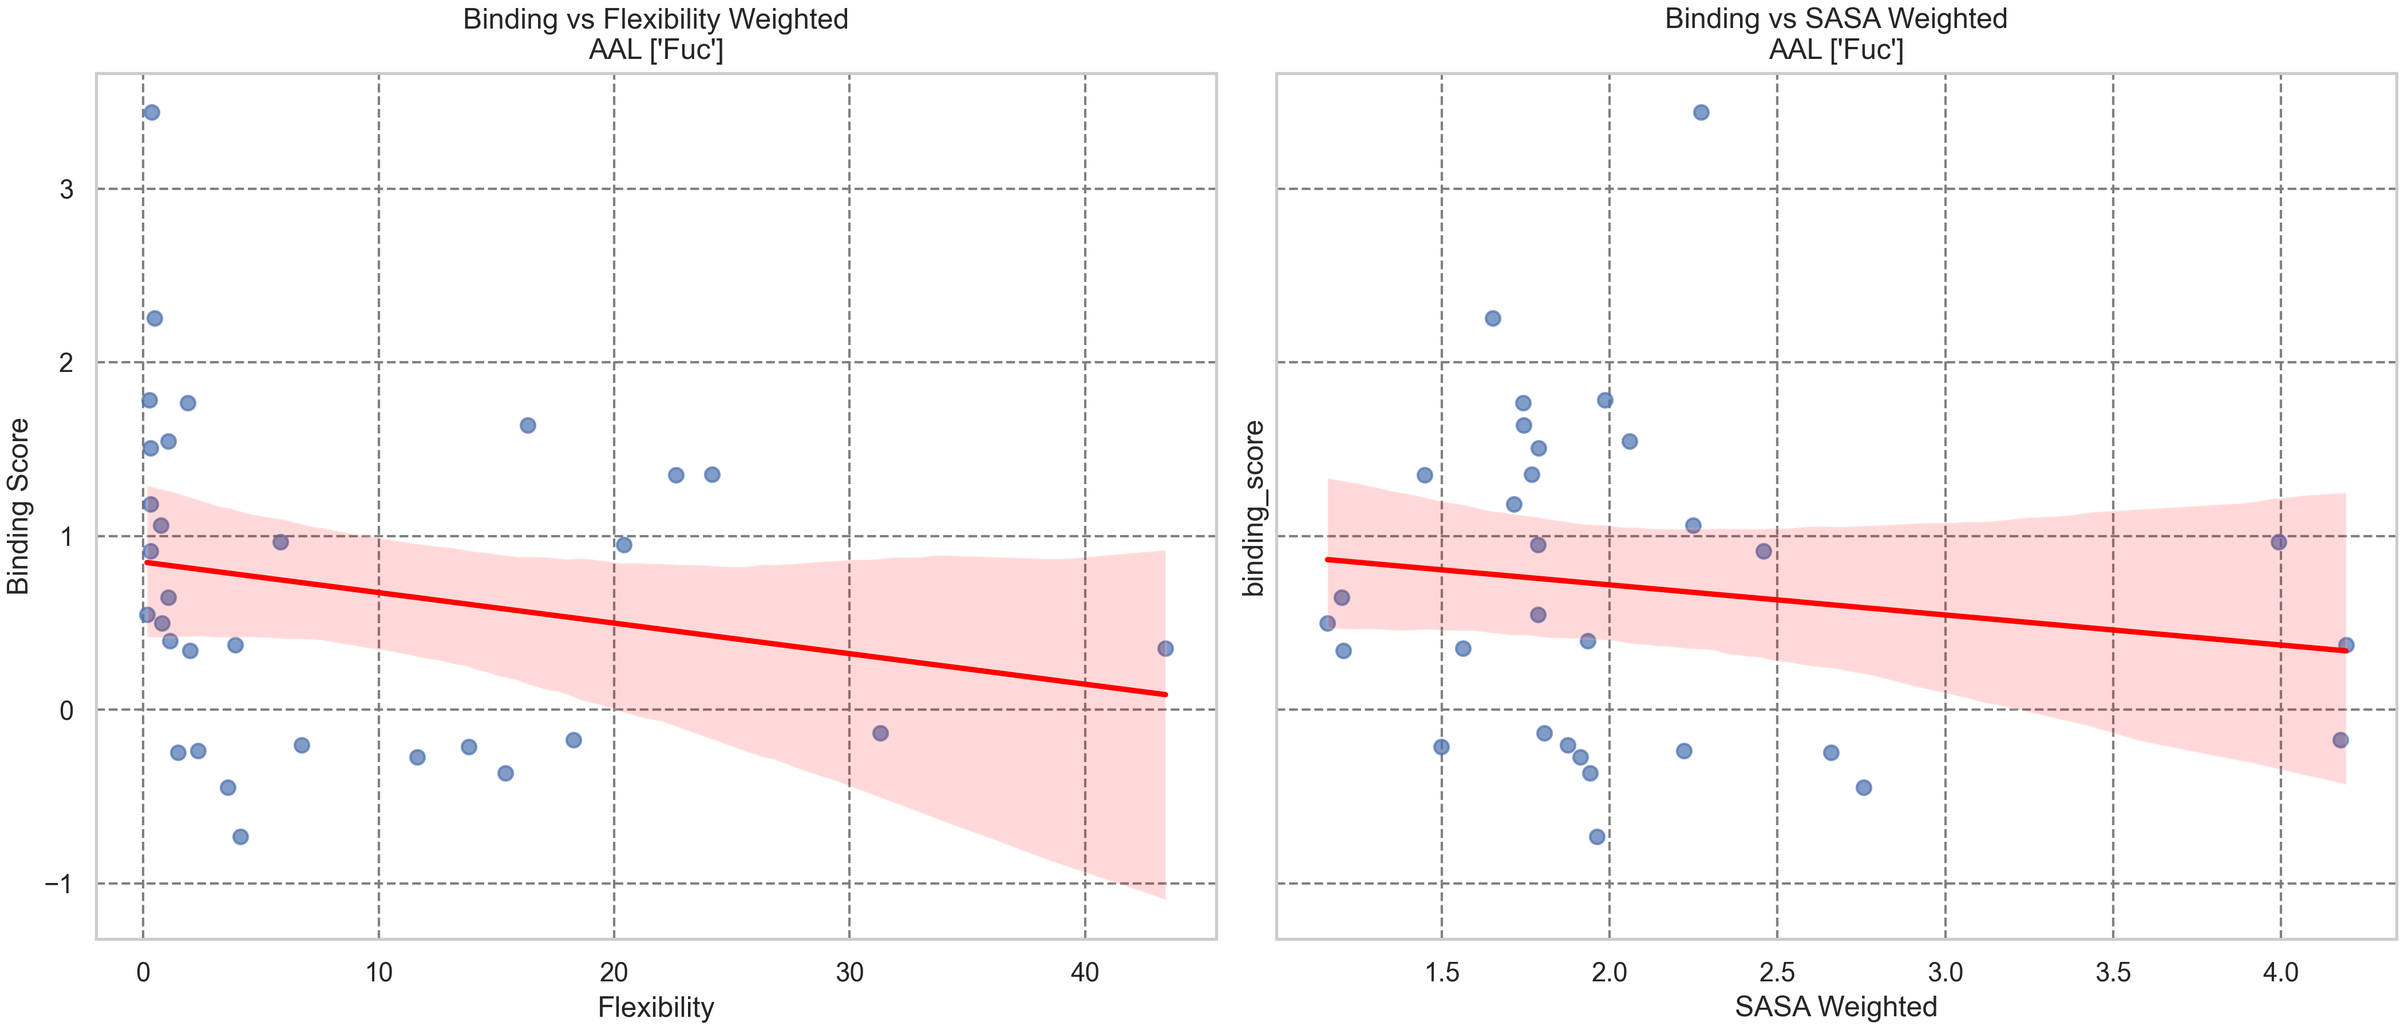
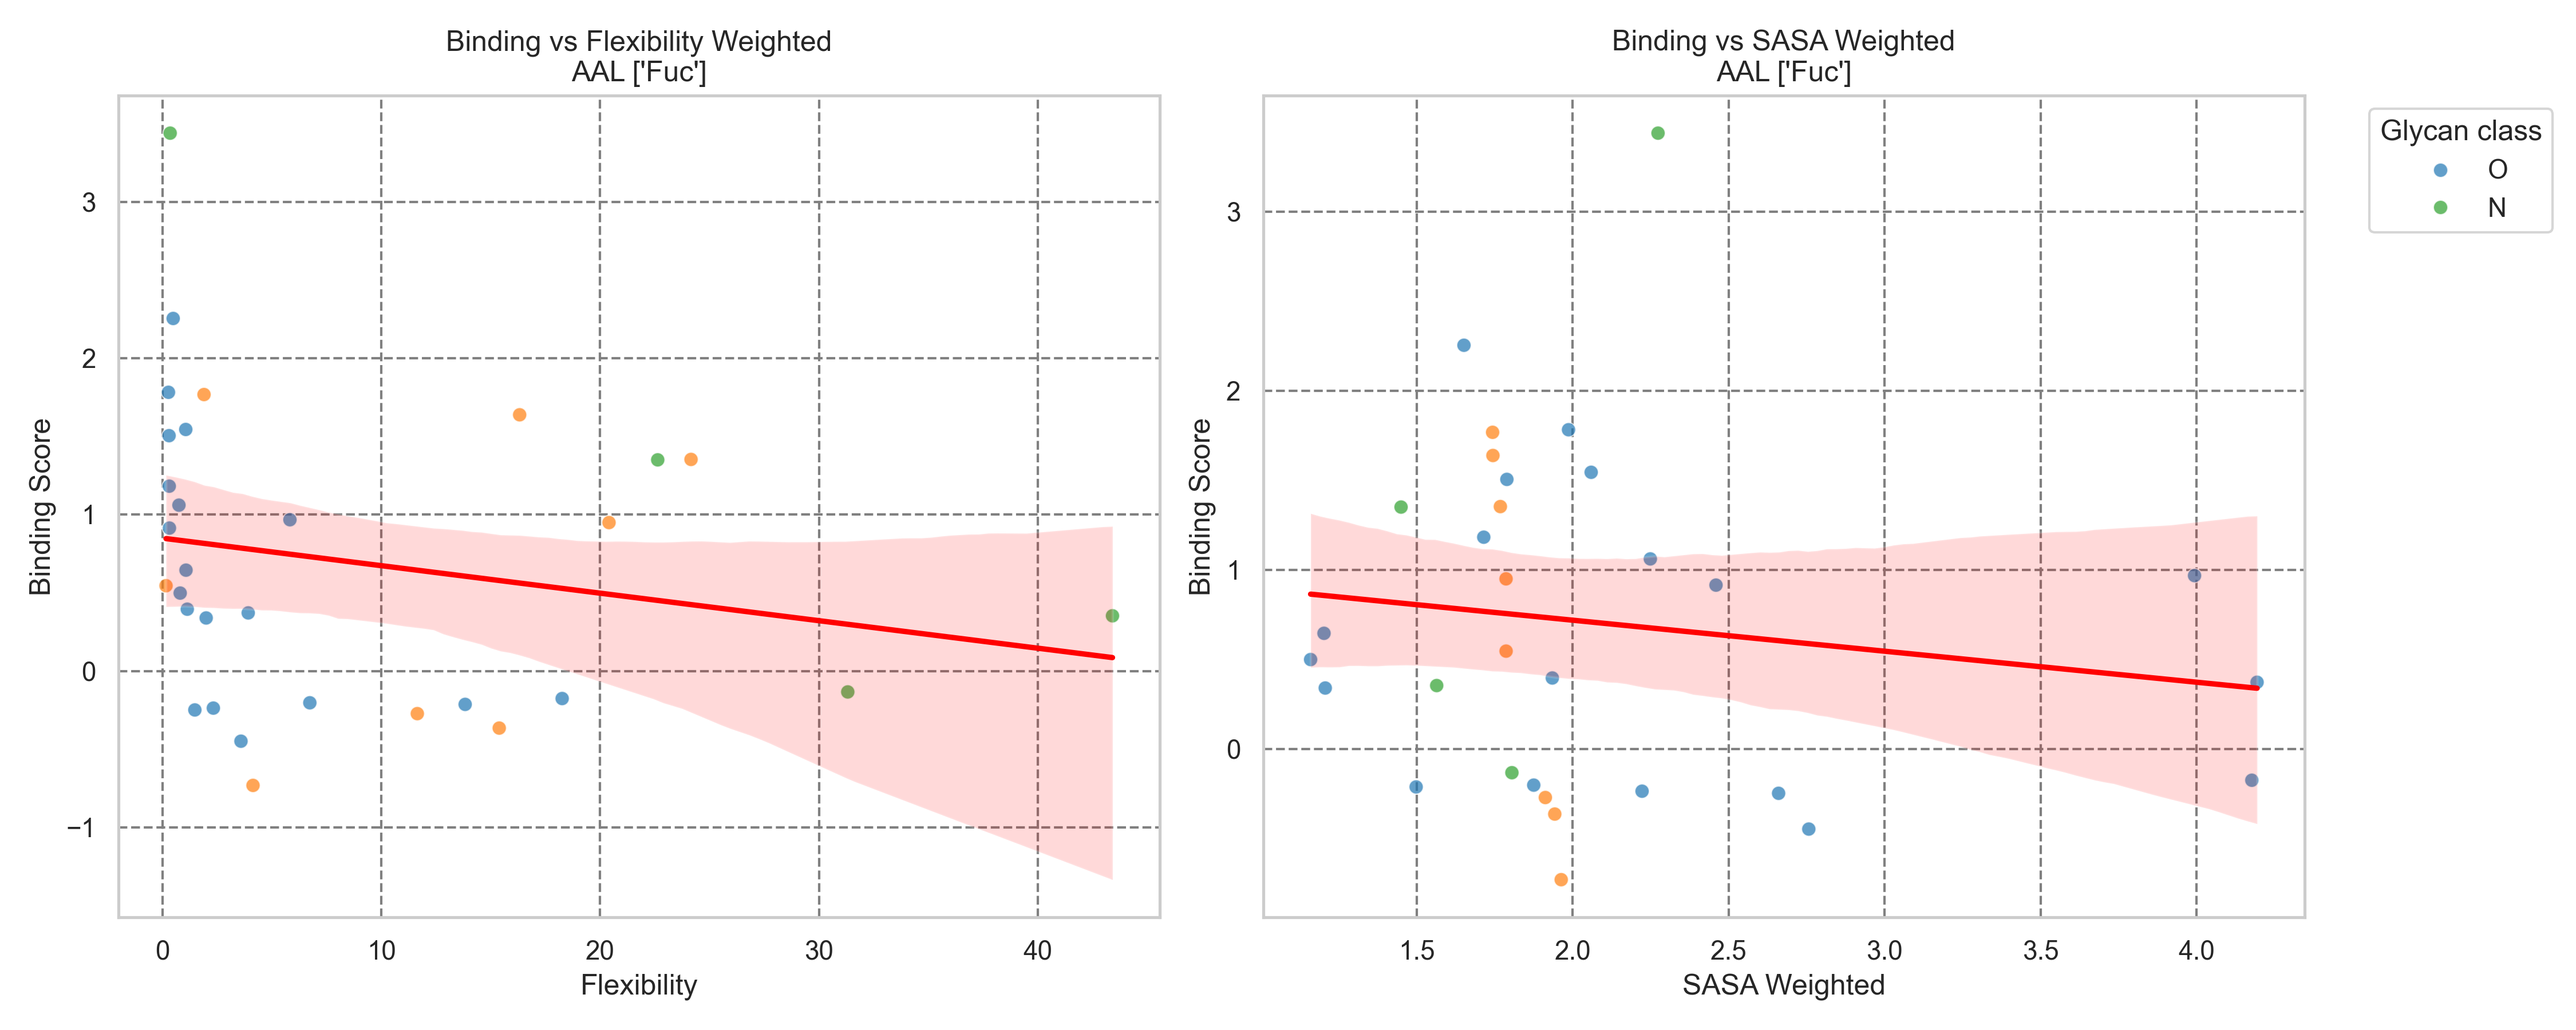
set 3: terminal_binding_motif, get_class, subgraph_isomorphism

diff --git a/scripts/correlation/func/metric_df3.py b/scripts/correlation/func/metric_df3.py
@@ -1,6 +1,8 @@
 import pickle
 import pandas as pd
 from glycowork.motif.graph import compare_glycans, subgraph_isomorphism
+from glycowork.motif.processing import get_class
+from glycowork.motif.graph import *
 
 flex_data_path = 'data/glycan_graphs.pkl'
 binding_data_path = 'data/glycan_binding.csv'
@@ -88,15 +90,39 @@ def process_glycan(matched_flex_glycan, binding_motifs, graph):
     Returns:
         Tuple of node attributes (matching monosaccharides), flexibility values, and found motifs.
     """
-    # Initialize lists for filtered metrics and found motifs
+
+    def extract_terminal_residue(binding_motif):
+        """
+        Extract the terminal residue from a binding motif.
+
+        Args:
+            binding_motif: A string representing a glycan binding motif (e.g., "Fuc(a1-2)Gal").
+
+        Returns:
+            A string representing the terminal residue (e.g., "Fuc(a1-2)").
+        """
+        # Find the first `(` and include everything up to the matching `)`
+        if '(' in binding_motif and ')' in binding_motif:
+            end_idx = binding_motif.find(')') + 1
+            return binding_motif[:end_idx]  # Extract up to the first `)`
+        else:
+            return binding_motif  # Return as is if no linkage format exists
+
+    # Preprocess the binding motifs list to extract terminal residues
+    terminal_binding_motifs = [extract_terminal_residue(motif) for motif in binding_motifs]
+
     matching_monosaccharides = []  # Nodes matching the binding motifs
     flexibility_values = []  # Weighted flexibility values for matching nodes
     found_motifs = []  # List of motifs found in the glycan
 
-    # Iterate over each binding motif
-    for binding_motif in binding_motifs:
-        # Use subgraph isomorphism to identify matching nodes for the current motif
-        is_present, matched_nodes = subgraph_isomorphism(matched_flex_glycan, binding_motif, return_matches=True)
+    # Iterate over the terminal binding motifs
+    for binding_motif in terminal_binding_motifs:
+        is_present, matched_nodes = subgraph_isomorphism(
+            matched_flex_glycan,
+            binding_motif,
+            return_matches=True,
+            termini_list=['terminal']  # Restrict to terminal matches
+        )
 
         if not is_present:
             # If the current motif is not present, skip to the next
@@ -106,17 +132,26 @@ def process_glycan(matched_flex_glycan, binding_motifs, graph):
         found_motifs.append(binding_motif)
 
         # Flatten matched nodes (in case of nested lists)
-        if isinstance(matched_nodes[0], list):
-            matched_nodes = [node for sublist in matched_nodes for node in sublist]
+        if matched_nodes:  # Check if there are matches
+            if isinstance(matched_nodes[0], list):
+                matched_nodes = [node for sublist in matched_nodes for node in sublist]
 
         # Process nodes in the graph to extract attributes for matched nodes
         for node in matched_nodes:
             if node in graph.nodes:
                 attributes = graph.nodes[node]
+                #matching_monosaccharides.append(attributes.get("Monosaccharide", 0))
                 matching_monosaccharides.append(attributes)
                 flexibility_values.append(attributes.get("weighted_mean_flexibility", 0))
 
+                # Debugging: print node data and motif match
+                print(f"Node {node} attributes: {attributes}")
+                if "name" in attributes:
+                    print(f"Matched motif: {binding_motif} in graph node {node} with name {attributes['name']}")
+                    print(f"Matched motif: {binding_motif} in graph node {node} with Monosaccharide {attributes['Monosaccharide']}")
+
     return matching_monosaccharides, flexibility_values, found_motifs
+
 
 
 def metric_df(lectin, binding_motif):
@@ -146,35 +181,112 @@ def metric_df(lectin, binding_motif):
 
         # Compute SASA metrics and overall flexibility
         sasa_metrics = compute_sasa_metrics(matching_monosaccharides)
-        overall_flexibility = (
-            sum(flexibility_values) / len(flexibility_values) if flexibility_values else None
-        )
+        overall_flexibility = (sum(flexibility_values) / len(flexibility_values) if flexibility_values else None)
+
+        # Get the glycan's class
+        glycan_class = get_class(matched_flex_glycan)
 
         metric_data.append({
             "glycan": glycan,
             "binding_score": binding_score,
-            "SASA_mean": sasa_metrics["SASA_mean"],
-            "SASA_median": sasa_metrics["SASA_median"],
+            #"SASA_mean": sasa_metrics["SASA_mean"],
+            #"SASA_median": sasa_metrics["SASA_median"],
             "SASA_weighted": sasa_metrics["SASA_weighted"],
-            "SASA_mean_max": sasa_metrics.get("SASA_mean_max", None),  # Add max metrics
-            "SASA_median_max": sasa_metrics.get("SASA_median_max", None),
+            #"SASA_mean_max": sasa_metrics.get("SASA_mean_max", None),
+            #"SASA_median_max": sasa_metrics.get("SASA_median_max", None),
             "SASA_weighted_max": sasa_metrics.get("SASA_weighted_max", None),
-            "SASA_mean_sum": sasa_metrics.get("SASA_mean_sum", None),  # Add sum metrics
-            "SASA_median_sum": sasa_metrics.get("SASA_median_sum", None),
+            #"SASA_mean_sum": sasa_metrics.get("SASA_mean_sum", None),
+            #"SASA_median_sum": sasa_metrics.get("SASA_median_sum", None),
             "SASA_weighted_sum": sasa_metrics.get("SASA_weighted_sum", None),
-            "weighted_mean_flexibility": overall_flexibility,  # Keep existing flexibility value
+            "weighted_mean_flexibility": overall_flexibility,
+            "class": glycan_class,  # Add class column
         })
 
     metric_df = pd.DataFrame(metric_data)
-    return metric_df #binding_df, filtered_df
+    return metric_df #, binding_df, filtered_df, flex_data
 
 
-# Example usage
-#lectin = "PNA"
-#binding_motif = "Gal(b1-3)GalNAc"
+def subgraph_isomorphism_II(glycan, motif, termini_list = [], count = False, return_matches = False):
+  if isinstance(glycan, str):
+    glycan = glycan_to_nxGraph(glycan, termini='calc' if termini_list else None)
+  else:
+    g1 = deepcopy(glycan)
+  if isinstance(motif, str):
+    motif = glycan_to_nxGraph(motif, termini='provided' if termini_list else None, termini_list=termini_list)
+  else:
+    g2 = deepcopy(motif)
+  if isinstance(glycan, str) and isinstance(motif, str):
+    if motif.count('(') > glycan.count('('):
+      return (0, []) if return_matches else 0 if count else False
+    if not count and not return_matches and motif in glycan:
+      return True
+    motif_comp = min_process_glycans([motif, glycan])
+    if 'O' in glycan + motif:
+      glycan, motif = [re.sub(r"(?<=[a-zA-Z])\d+(?=[a-zA-Z])", 'O', g).replace('NeuOAc', 'Neu5Ac').replace('NeuOGc', 'Neu5Gc') for g in [glycan, motif]]
+  else:
+    print(motif.__dict__,glycan.__dict__)
+    # if len(glycan.nodes) < len(motif.nodes):
+    #   return (0, []) if return_matches else 0 if count else False
+    motif_comp = [nx.get_node_attributes(motif, "string_labels").values(), nx.get_node_attributes(glycan, "string_labels").values()]
+    if 'O' in ''.join(unwrap(motif_comp)):
+      g1, g2 = ptm_wildcard_for_graph(deepcopy(glycan)), ptm_wildcard_for_graph(deepcopy(motif))
+    else:
+      g1, g2 = deepcopy(glycan), motif
+  narrow_wildcard_list = {k: get_possible_linkages(k) if '?' in k else get_possible_monosaccharides(k) for k in set(unwrap(motif_comp))
+                          if '?' in k or k in {'Hex', 'HexOS', 'HexNAc', 'HexNAcOS', 'dHex', 'Sia', 'HexA', 'Pen', 'Monosaccharide'} or '!' in k}
+  if termini_list or narrow_wildcard_list:
+    graph_pair = nx.algorithms.isomorphism.GraphMatcher(g1, g2, node_match = categorical_node_match_wildcard('string_labels', 'unknown', narrow_wildcard_list,
+                                                                                                             'termini', 'flexible'))
+  else:
+    g1_node_attr = set(nx.get_node_attributes(g1, "string_labels").values())
+    if all(k in g1_node_attr for k in motif_comp[0]):
+      graph_pair = nx.algorithms.isomorphism.GraphMatcher(g1, g2, node_match = nx.algorithms.isomorphism.categorical_node_match('string_labels', 'unknown'))
+    else:
+      return (0, []) if return_matches else 0 if count else False
+
+  if return_matches:
+    mappings = [list(isos.keys()) for isos in graph_pair.subgraph_isomorphisms_iter()]
+
+  # Count motif occurrence
+  if count:
+    counts = 0
+    while graph_pair.subgraph_is_isomorphic():
+      mapping = graph_pair.mapping
+      inverse_mapping  = {v: k for k, v in mapping.items()}
+      if all(inverse_mapping[node] < inverse_mapping[neighbor] for node, neighbor in g2.edges()):
+        counts += 1
+      g1.remove_nodes_from(mapping.keys())
+      if termini_list or narrow_wildcard_list:
+        graph_pair = nx.algorithms.isomorphism.GraphMatcher(g1, g2, node_match = categorical_node_match_wildcard('string_labels', 'unknown', narrow_wildcard_list,
+                                                                                                             'termini', 'flexible'))
+      else:
+        g1_node_attr = set(nx.get_node_attributes(g1, "string_labels").values())
+        if all(k in g1_node_attr for k in motif_comp[0]):
+          graph_pair = nx.algorithms.isomorphism.GraphMatcher(g1, g2, node_match = nx.algorithms.isomorphism.categorical_node_match('string_labels', 'unknown'))
+        else:
+          return counts if not return_matches else (counts, mappings)
+    return counts if not return_matches else (counts, mappings)
+  else:
+    if graph_pair.subgraph_is_isomorphic():
+      for mapping in graph_pair.subgraph_isomorphisms_iter():
+        mapping = {v: k for k, v in mapping.items()}
+        for node, neighbor in g2.edges():
+          if mapping[node] >= mapping[neighbor]:
+             return False if not return_matches else (0, [])
+        return True if not return_matches else (1, mappings)
+  return False if not return_matches else (0, [])
 
 
-#lectin = "CMA"
-#binding_motif = ["Fuc(a1-2)Gal", "GalNAc"]
 
-#metric_df, binding_df, filtered_df = metric_df(lectin, binding_motif)
+"""# Example usage
+lectin = "CMA"
+binding_motif = ["Fuc(a1-2)Gal", "GalNAc"]
+
+metric_df, binding_df, filtered_df, flex_data = metric_df(lectin, binding_motif)
+
+subgraph_isomorphism_II(
+            flex_data['Fuc(a1-2)Gal'],
+            'Fuc(a1-2)',
+            return_matches=True,
+            termini_list=['terminal'])
+"""

diff --git a/scripts/correlation/func/plot_corr_regg.py b/scripts/correlation/func/plot_corr_regg.py
@@ -81,9 +81,7 @@ def plot_corr_binding_SASA(metric_df, lectin, binding_motif):
 
 def plot_corr_binding_SASA_subplots(metric_df, lectin, binding_motif):
     """Plot correlation of binding scores with SASA-related metrics in subplots."""
-
-    # Filter for metrics that start with "SASA"
-    sasa_metrics = [metric for metric in metric_df.columns if metric.startswith("SASA")]
+    sasa_metrics = [metric for metric in metric_df.columns if metric.startswith("SASA_weighted")]
 
     # Create a figure with 3 rows and 3 columns of subplots
     fig, axes = plt.subplots(3, 3, figsize=(15, 15))
@@ -105,7 +103,7 @@ def plot_corr_binding_SASA_subplots(metric_df, lectin, binding_motif):
                 data=metric_df,
                 ax=ax,
                 scatter_kws={'alpha': 0.7},
-                line_kws={'color': 'red'}
+                line_kws={'color': 'red'},
             )
 
             # Set subplot title and labels
@@ -152,7 +150,7 @@ def plot_combined(metric_df, lectin, binding_motif):
         y='binding_score',
         data=metric_df,
         scatter_kws={'alpha': 0.7},
-        line_kws={'color': 'red'}
+        line_kws={'color': 'red'},
     )
     axes[0].set_title(f'Binding vs Flexibility Weighted\n{lectin} {binding_motif}', fontsize=12)
     axes[0].set_xlabel('Flexibility')
@@ -175,5 +173,67 @@ def plot_combined(metric_df, lectin, binding_motif):
 
     # Show the plots
     plt.show()
+
+def plot_combined_colors(metric_df, lectin, binding_motif):
+    """Plots Binding vs Flexibility and Binding vs SASA Weighted with colors for glycans."""
+
+    fig, axes = plt.subplots(1, 2, figsize=(15, 6))  # Create two subplots side by side
+
+    # Plot Binding vs Flexibility without legend
+    sns.scatterplot(
+        ax=axes[0],
+        x='weighted_mean_flexibility',
+        y='binding_score',
+        data=metric_df,
+        hue="class",  # Color by glycan class
+        palette="tab10",  # Use glycan column for coloring
+        alpha=0.7
+    )
+    sns.regplot(
+        ax=axes[0],
+        x='weighted_mean_flexibility',
+        y='binding_score',
+        data=metric_df,
+        scatter=False,  # Do not plot points again
+        line_kws={'color': 'red'}
+    )
+    axes[0].set_title(f'Binding vs Flexibility Weighted\n{lectin} {binding_motif}', fontsize=12)
+    axes[0].set_xlabel('Flexibility')
+    axes[0].set_ylabel('Binding Score')
+    axes[0].get_legend().remove()  # Remove legend from the first plot
+
+    # Plot Binding vs SASA Weighted with the legend
+    sns.scatterplot(
+        ax=axes[1],
+        x='SASA_weighted',
+        y='binding_score',
+        data=metric_df,
+        hue='class',  # Use glycan column for coloring
+        palette="tab10",
+        alpha=0.7
+    )
+    sns.regplot(
+        ax=axes[1],
+        x='SASA_weighted',
+        y='binding_score',
+        data=metric_df,
+        scatter=False,  # Do not plot points again
+        line_kws={'color': 'red'}
+    )
+    axes[1].set_title(f'Binding vs SASA Weighted\n{lectin} {binding_motif}', fontsize=12)
+    axes[1].set_xlabel('SASA Weighted')
+    axes[1].set_ylabel('Binding Score')
+    axes[1].legend(title="Glycan class", bbox_to_anchor=(1.05, 1), loc='upper left')  # Keep class legend
+
+    # Adjust layout for better spacing
+    plt.tight_layout()
+
+    # Save the combined plot
+    plt.savefig(f'scripts/correlation/plots/set3/Binding_vs_Flexibility_and_SASA_{lectin}.png', dpi=300)
+
+    # Show the plots
+    plt.show()
+
+
 
 

diff --git a/scripts/correlation/lectin_motif.py b/scripts/correlation/lectin_motif.py
@@ -1,6 +1,5 @@
 from scripts.correlation.func.metric_df3 import metric_df
-from scripts.correlation.func.plot_corr_regg import plot_combined, plot_corr_binding_SASA_subplots
-from scripts.correlation.func.plot_corr_regg import plot_corr_binding_SASA_subplots
+from scripts.correlation.func.plot_corr_regg import plot_combined, plot_corr_binding_SASA_subplots, plot_combined_colors
 
 set1 = {
     "AAL": ["Fuc"],
@@ -20,18 +19,18 @@ set2= {
 
 #Set3
 lectin_binding_motif = {
-    "AAL": ["Fuc"],
-    "SNA": ["Neu5Ac(a2-6)", "Neu5Gc(a2-6)"],
-    "ConA": ["Man"],
-    "MAL-II": ["Neu5Ac(a2-3)"],
-"PNA": ["Gal(b1-3)GalNAc"],
-"CMA": ["Fuc(a1-2)Gal", "GalNAc"],
-# "CF": ["GalNAc(a1-?)", "GlcNAc(b1-?)"], #subgraph isomorphism
-# "HPA": ["GalNAc(a1-?)", "GlcNAc(b1-?)"],
-#"LAA": ["Fuc(a1-2)Gal(b1-4)GlcNAc"]
+    #"AAL": ["Fuc"],
+    #"SNA": ["Sia(a2-6)"],
+    #"ConA": ["Man"],
+    #"MAL-II": ["Neu5Ac(a2-3)"],
+    #"PNA": ["Gal(b1-3)GalNAc"],
+    "CMA": ["Fuc(a1-2)Gal", "GalNAc"], # specifiy th terminal node within is teh first monosac if there is more then one
+# "CF": ["GalNAc(a1-?)", "GlcNAc(b1-?)"], No lectin found
+    #"HPA": ["GalNAc(a1-?)", "GlcNAc(b1-?)"],
+#"LAA": ["Fuc(a1-2)Gal(b1-4)GlcNAc"], No lectin found
                         }
 
 for lectin, binding_motif in lectin_binding_motif.items():
     metric_df_instance = metric_df(lectin, binding_motif)
-    #plot_combined(metric_df_instance, lectin, binding_motif)
-    plot_corr_binding_SASA_subplots(metric_df_instance, lectin, binding_motif)
+    #plot_corr_binding_SASA_subplots(metric_df_instance, lectin, binding_motif)
+    plot_combined_colors(metric_df_instance, lectin, binding_motif)
